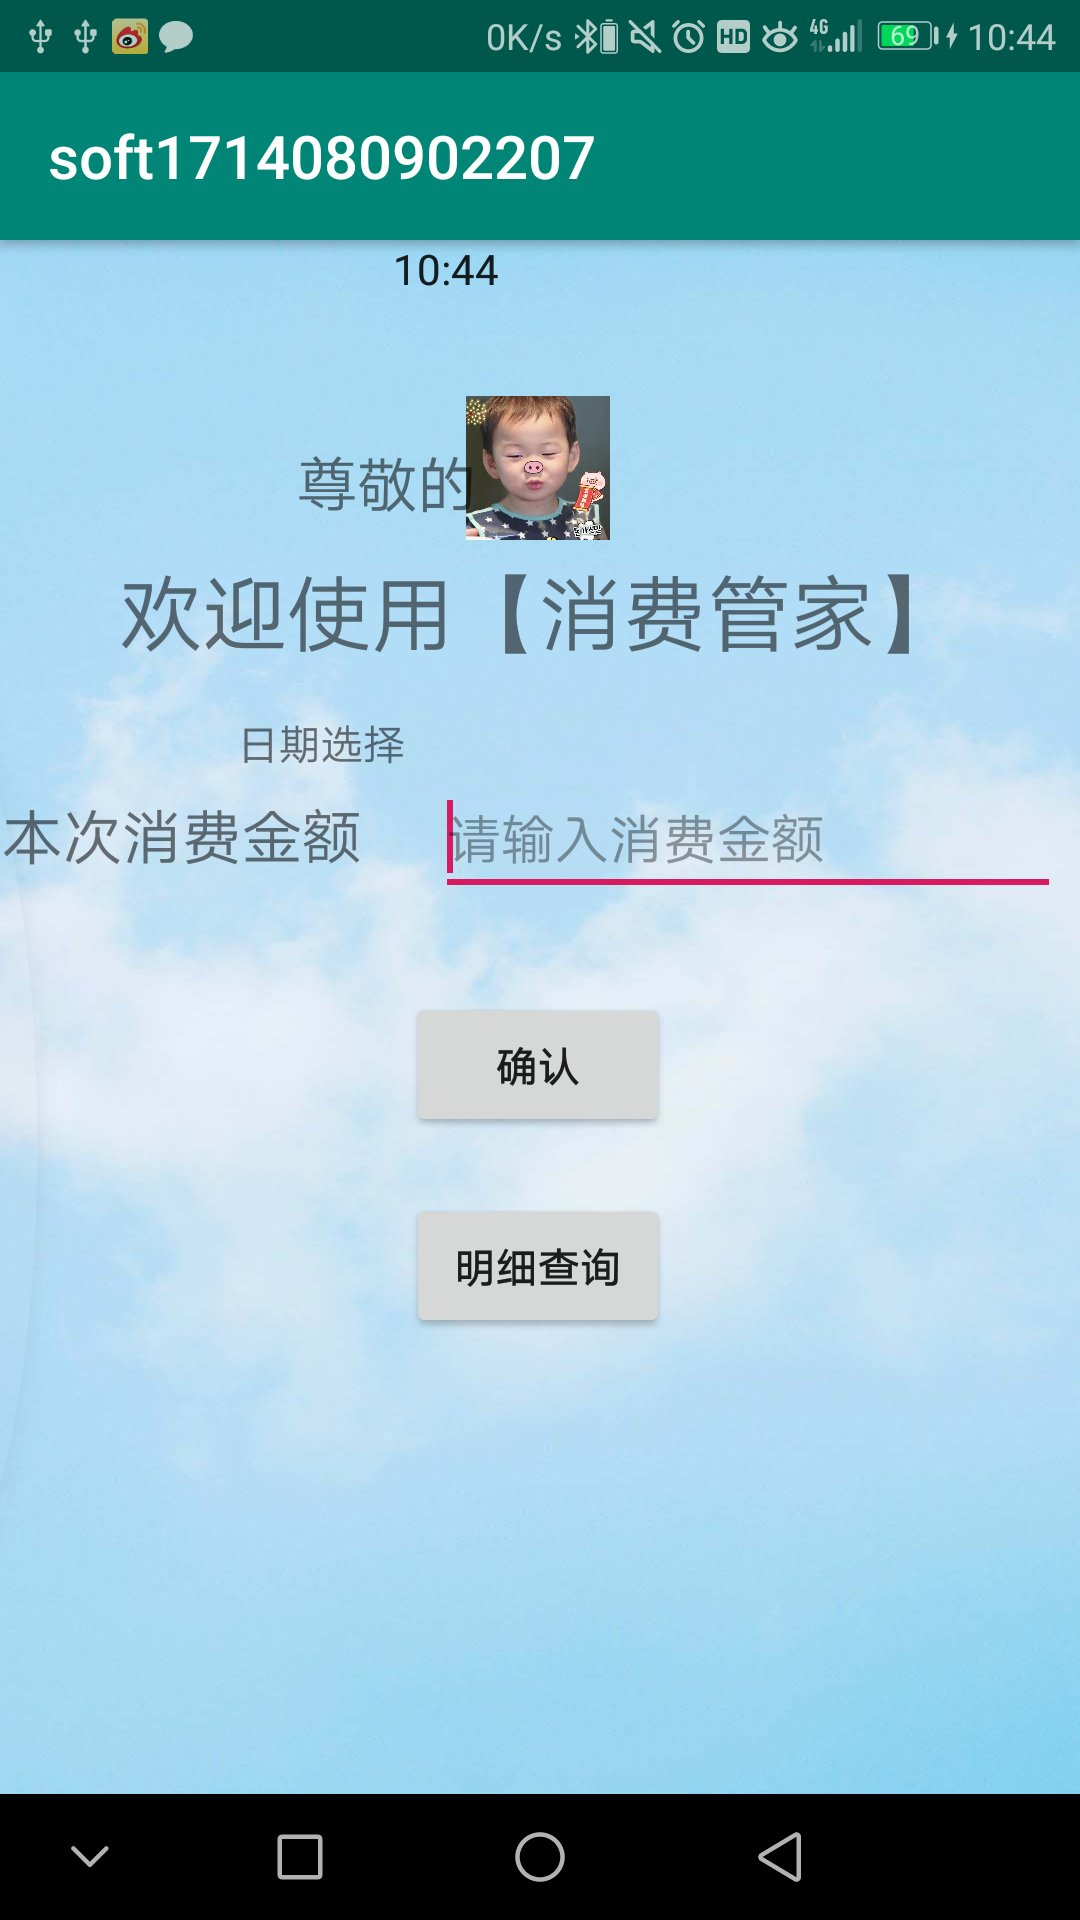
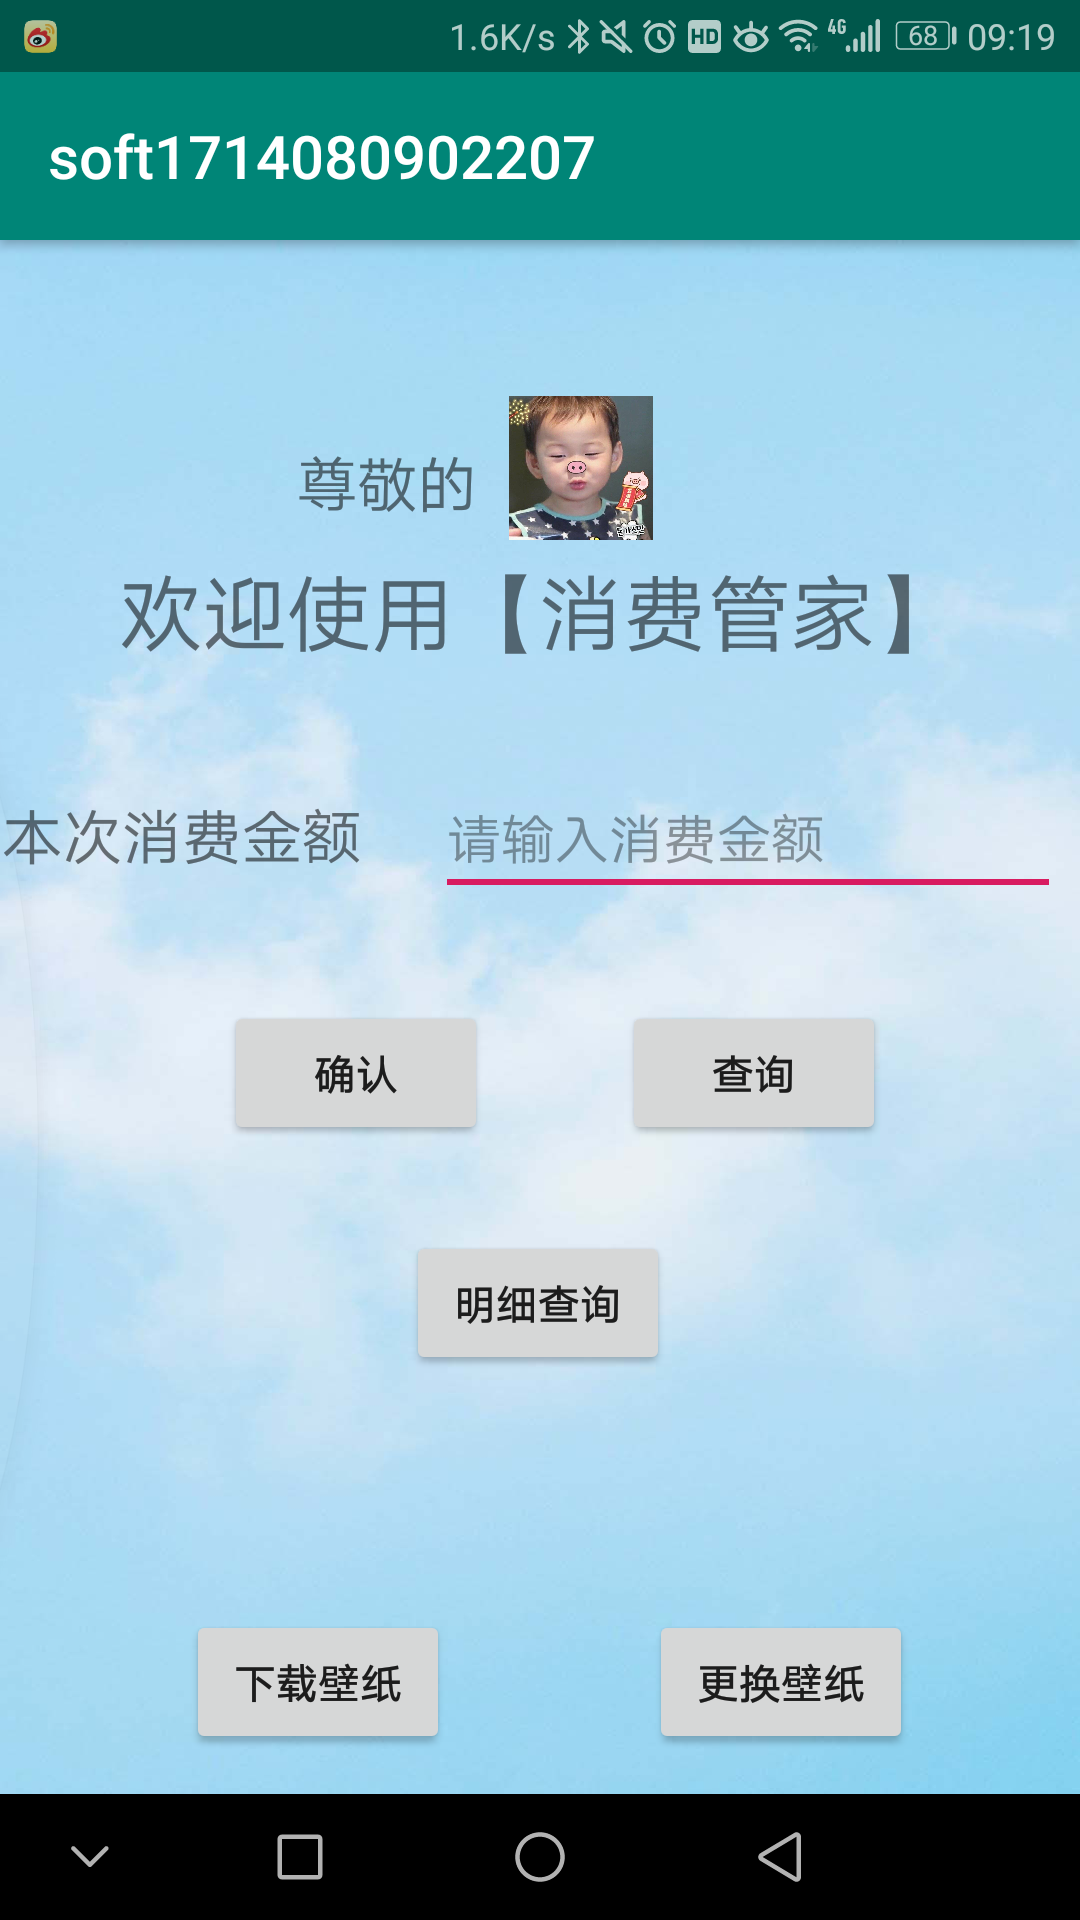
第六次实验

diff --git a/students/soft1714080902207/消费管家/app/src/main/java/edu/hzuapps/androidlabs/soft1714080902207/Soft_1714080902207_MainActivity.java b/students/soft1714080902207/消费管家/app/src/main/java/edu/hzuapps/androidlabs/soft1714080902207/Soft_1714080902207_MainActivity.java
@@ -2,25 +2,47 @@ package edu.hzuapps.androidlabs.soft1714080902207;
 
 import android.content.Intent;
 
+import android.graphics.Bitmap;
+
+import android.os.Handler;
+
 import android.support.v7.app.AppCompatActivity;
 import android.os.Bundle;
+
 import android.view.View;
 import android.widget.Button;
 import android.widget.EditText;
-import android.widget.TextView;
+
+import android.widget.ImageView;
 import android.widget.Toast;
 
 import java.io.FileInputStream;
-import java.io.FileNotFoundException;
+
 import java.io.FileOutputStream;
-import java.io.IOException;
+
+
 
 public class Soft_1714080902207_MainActivity extends AppCompatActivity {
     private EditText editText2;
+    private Button showImage;
     private Button button4;
     private Button button2;
     private Button button3;
+    private ImageView imageView2;
 
+    private final int SHOW_IMAGE=1;
+    String pathString="http://pic46.nipic.com/20140813/10153265_103918805357_2.jpg";
+    Bitmap bitmap;
+    Handler h=new Handler() {
+        public void handleMessage(android.os.Message msg) {
+
+            switch (msg.what) {
+                case SHOW_IMAGE:
+                    Bitmap bitmap = (Bitmap) msg.obj;
+                    imageView2.setImageBitmap(bitmap);
+                    break;
+                default:
+                    break; }};};
     @Override
     protected void onCreate(Bundle savedInstanceState) {
         super.onCreate(savedInstanceState);
@@ -45,11 +67,16 @@ public class Soft_1714080902207_MainActivity extends AppCompatActivity {
                 startActivity(intent);
             }
         });
+
+
+
     }
 
-    private class ButtonListener implements View.OnClickListener {
 
 
+
+
+               private class ButtonListener implements View.OnClickListener {
         @Override
         public void onClick(View v) {
             switch (v.getId()) {
@@ -85,24 +112,6 @@ public class Soft_1714080902207_MainActivity extends AppCompatActivity {
 
                 default:
             }
-
-
-
-
-
-
-
-
-
-    /*@Override
-    public void onClick(View v) {
-        switch (v.getId())
-        {
-            case R.id.button2:
-                Toast.makeText(Soft_1714080902207_MainActivity.this,"本次消费记录成功",Toast.LENGTH_SHORT).show();
-        }
-    }
-*/
         }
     }
 }
